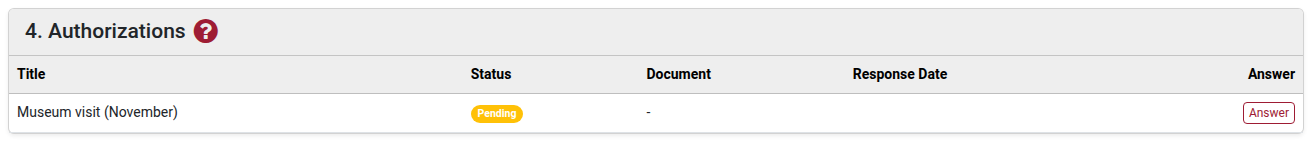
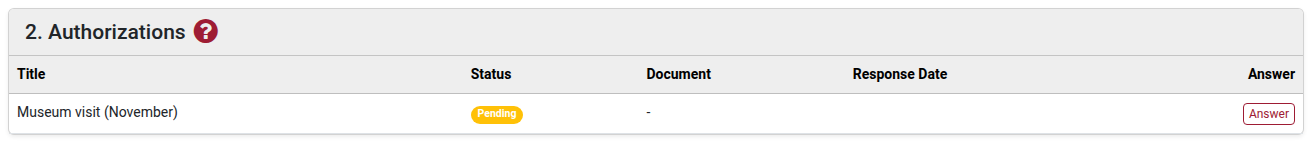
Move the portal authorizations block under the enrollment and translate its labels

diff --git a/changelog/443-authorizations-not-included-in-the-enrollments.md b/changelog/443-authorizations-not-included-in-the-enrollments.md
@@ -81,6 +81,15 @@ A pending authorization sent during the course deliberately does not block confi
 enrollment: both gates (`sale.order.action_confirm()` and the portal's own confirm) read the
 enrollment's own one2many, and a test now pins that.
 
+## Portal layout of the authorizations block:
+
+On a confirmed enrollment the block sits right under the enrollment details, as section 2, with
+payment and communications renumbered after it. It carries its own top and bottom margin, since
+some of the cards around it express their spacing as `mt-` rather than `mb-` and left it glued
+to the card above. It also renders for a student with no enrollment for the course being
+enrolled into: an authorization sent during the course hangs off the student, and that case
+previously fell inside the page's "no enrollment" branch and showed nothing.
+
 ## Student file reads the student's own authorizations:
 
 The four authorization badges and the Secretary tab's list now read `ems.authorization` by
@@ -196,3 +205,9 @@ never reports: labels like *Student*, *Academic Year*, *Study* or *Send to* alre
 other fields, so the text was not new - but the new field's own `#:` reference had to be added
 to the block that was already there or it would render untranslated. Verified by reading the
 jsonb values back out of the database rather than trusting the files.
+
+A first pass missed the portal's own menu label and home card, which stayed in English for
+Catalan and Spanish users: the terms were filtered by source file name (`portal_main`,
+`portal_header`) while the reference Odoo exports carries the view's xmlid
+(`portal_my_home_ems_custom_landing`, `ems_portal_custom_header_menu`). Filtering by xmlid
+found them, along with the renumbered section headings.
